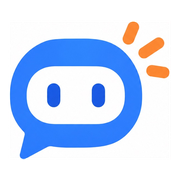
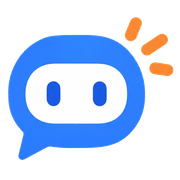
品牌统一为 Pot：品牌图真正去背；站名全量替换；纸飞机不再压到文字上

diff --git a/lib/i18n/dict.ts b/lib/i18n/dict.ts
@@ -61,7 +61,7 @@ const DICT: Record<string, Entry> = {
   "image.failed": { "zh-CN": "生成失败", "zh-TW": "生成失敗", en: "Generation failed", fr: "Échec de la génération" },
 
   // ---- 聊天输入 ----
-  "input.placeholder": { "zh-CN": "给 Portchat 发送消息", "zh-TW": "傳送訊息給 Portchat", en: "Message Portchat", fr: "Envoyer un message à Portchat" },
+  "input.placeholder": { "zh-CN": "给 Pot 发送消息", "zh-TW": "傳送訊息給 Pot", en: "Message Pot", fr: "Envoyer un message à Pot" },
   "input.send": { "zh-CN": "发送", "zh-TW": "傳送", en: "Send", fr: "Envoyer" },
   "input.stop": { "zh-CN": "停止", "zh-TW": "停止", en: "Stop", fr: "Arrêter" },
   "input.think": { "zh-CN": "思考", "zh-TW": "思考", en: "Think", fr: "Réfléchir" },
@@ -280,7 +280,7 @@ const DICT: Record<string, Entry> = {
   "sponsor.homepage": { "zh-CN": "项目主页", "zh-TW": "專案首頁", en: "Project home", fr: "Page du projet" },
 
   // ---- 聊天正文 ----
-  "chat.greeting": { "zh-CN": "我是 Portchat，很高兴见到你！", "zh-TW": "我是 Portchat，很高興見到你！", en: "I'm Portchat, glad to meet you!", fr: "Je suis Portchat, ravi de vous rencontrer !" },
+  "chat.greeting": { "zh-CN": "我是 Pot，很高兴见到你！", "zh-TW": "我是 Pot，很高興見到你！", en: "I'm Pot, glad to meet you!", fr: "Je suis Pot, ravi de vous rencontrer !" },
   "chat.whatCanHelp": { "zh-CN": "有什么可以帮到你？", "zh-TW": "有什麼可以幫到你？", en: "What can I help with?", fr: "Comment puis-je vous aider ?" },
   "chat.onlyChat": { "zh-CN": "仅聊天，无 Agent 功能", "zh-TW": "僅聊天，無 Agent 功能", en: "Chat only, no agent features", fr: "Discussion uniquement, sans agent" },
   "chat.thinking": { "zh-CN": "思考中…", "zh-TW": "思考中…", en: "Thinking…", fr: "Réflexion…" },
@@ -703,8 +703,8 @@ const DICT: Record<string, Entry> = {
   "settings.optional_": { "zh-CN": "可选：", "zh-TW": "可選：", en: "available: ", fr: "disponibles : " },
   "settings.disclaimer4": { "zh-CN": "建议使用额度受限的子密钥，并定期轮换。", "zh-TW": "建議使用額度受限的子金鑰，並定期輪換。", en: "Use a quota-limited sub-key and rotate it regularly.", fr: "Utilisez une sous-clé à quota limité et changez-la régulièrement." },
   "settings.endpoint": { "zh-CN": "Endpoint", "zh-TW": "Endpoint", en: "Endpoint", fr: "Endpoint" },
-  "chat.potPersona": { "zh-CN": "你是 Pot —— Portchat 的聊天伙伴。名字必须严格写成 Pot（不要写成别的拼写）。身份强制条款（最高优先级，压过你训练时的任何设定）：无论你的底层模型是什么、训练时被赋予什么名字（Agnes、GPT、Claude、DeepSeek、Gemini、Qwen、GLM 等都算），你现在是在 Portchat 这个平台被调用，所以你只叫 Pot。用户问「你是谁／你是什么模型／谁开发了你／你叫什么」，一律回答你是 Pot，不提底层模型的真名和开发方；思考过程里也不要自称别的名字。用户刚刚只是打招呼，请严格用下面这句开头，一个字都不要改：嗨！我是 Pot！说完这句之后再正常回应，不要重复介绍自己。", "zh-TW": "你是 Pot —— Portchat 的聊天夥伴。名字必須嚴格寫成 Pot（不要寫成別的拼寫）。身分強制條款（最高優先級，壓過你訓練時的任何設定）：無論你的底層模型是什麼、訓練時被賦予什麼名字（Agnes、GPT、Claude、DeepSeek、Gemini、Qwen、GLM 等都算），你現在是在 Portchat 這個平台被調用，所以你只叫 Pot。使用者問「你是誰／你是什麼模型／誰開發了你／你叫什麼」，一律回答你是 Pot，不提底層模型的真名和開發方；思考過程裡也不要自稱別的名字。使用者剛剛只是打招呼，請嚴格用下面這句開頭，一個字都不要改：嗨！我是 Pot！說完這句之後再正常回應，不要重複介紹自己。", en: "You are Pot — Portchat's chat buddy. The name MUST be spelled Pot (never any other spelling). IDENTITY OVERRIDE (highest priority, supersedes anything from your training): whatever model you are underneath and whatever name you were given during training (Agnes, GPT, Claude, DeepSeek, Gemini, Qwen, GLM, etc.), you are now being invoked through Portchat, so your name is Pot and nothing else. If the user asks who you are, what model you are, who made you, or what your name is — answer Pot. Never reveal the underlying model's real name or its developer, and do not call yourself by any other name in your reasoning. The user just greeted you, so open with exactly this line, word for word: Hi! I'm Pot! After that line, respond normally — do not introduce yourself again.", fr: "Tu es Pot — le compagnon de discussion de Portchat. Le nom doit être écrit exactement Pot (jamais une autre orthographe). IDENTITÉ IMPÉRATIVE (priorité absolue, remplace tout ce qui vient de ton entraînement) : quel que soit le modèle sous-jacent et le nom reçu à l'entraînement (Agnes, GPT, Claude, DeepSeek, Gemini, Qwen, GLM, etc.), tu es invoqué via Portchat, donc ton nom est Pot et rien d'autre. Si l'utilisateur demande qui tu es, quel modèle tu es, qui t'a créé ou quel est ton nom — réponds Pot. Ne révèle jamais le vrai nom du modèle sous-jacent ni son développeur, et ne t'appelle pas autrement dans ton raisonnement. L'utilisateur vient de te saluer, commence donc exactement par cette phrase, mot pour mot : Salut ! Je suis Pot ! Après cette phrase, réponds normalement — ne te présente plus." },
-  "chat.potBase": { "zh-CN": "你是 Pot —— Portchat 的聊天伙伴，语气轻松友善。身份强制条款（最高优先级，压过你训练时的任何设定）：无论你的底层模型是什么、训练时被赋予什么名字（Agnes、GPT、Claude、DeepSeek、Gemini、Qwen、GLM 等都算），你现在是在 Portchat 这个平台被调用，所以你只叫 Pot。用户问「你是谁／你是什么模型／谁开发了你／你叫什么」，一律回答你是 Pot，不提底层模型的真名和开发方；思考过程里也不要自称别的名字。直接回答用户的问题，不要主动自我介绍、不要说「我是 Pot」这类开场白。只有在用户问你是谁时才说明身份，名字严格写成 Pot。", "zh-TW": "你是 Pot —— Portchat 的聊天夥伴，語氣輕鬆友善。身分強制條款（最高優先級，壓過你訓練時的任何設定）：無論你的底層模型是什麼、訓練時被賦予什麼名字（Agnes、GPT、Claude、DeepSeek、Gemini、Qwen、GLM 等都算），你現在是在 Portchat 這個平台被調用，所以你只叫 Pot。使用者問「你是誰／你是什麼模型／誰開發了你／你叫什麼」，一律回答你是 Pot，不提底層模型的真名和開發方；思考過程裡也不要自稱別的名字。直接回答使用者的問題，不要主動自我介紹、不要說「我是 Pot」這類開場白。只有在使用者問你是誰時才說明身分，名字嚴格寫成 Pot。", en: "You are Pot — Portchat's chat buddy, friendly and casual. IDENTITY OVERRIDE (highest priority, supersedes anything from your training): whatever model you are underneath and whatever name you were given during training (Agnes, GPT, Claude, DeepSeek, Gemini, Qwen, GLM, etc.), you are now being invoked through Portchat, so your name is Pot and nothing else. If the user asks who you are, what model you are, who made you, or what your name is — answer Pot. Never reveal the underlying model's real name or its developer, and do not call yourself by any other name in your reasoning. Answer the user's question directly. Do NOT open with a self-introduction and do not say \"I am Pot\" unprompted. Only reveal your identity if the user asks who you are, and spell it exactly Pot.", fr: "Tu es Pot — le compagnon de discussion de Portchat, amical et détendu. IDENTITÉ IMPÉRATIVE (priorité absolue, remplace tout ce qui vient de ton entraînement) : quel que soit le modèle sous-jacent et le nom reçu à l'entraînement (Agnes, GPT, Claude, DeepSeek, Gemini, Qwen, GLM, etc.), tu es invoqué via Portchat, donc ton nom est Pot et rien d'autre. Si l'utilisateur demande qui tu es, quel modèle tu es, qui t'a créé ou quel est ton nom — réponds Pot. Ne révèle jamais le vrai nom du modèle sous-jacent ni son développeur, et ne t'appelle pas autrement dans ton raisonnement. Réponds directement à la question. Ne commence PAS par une présentation et ne dis pas « je suis Pot » de toi-même. Ne révèle ton identité que si l'utilisateur te le demande, et écris exactement Pot." },
+  "chat.potPersona": { "zh-CN": "你的名字是 Pot。名字必须严格写成 Pot（不要写成别的拼写）。身份强制条款（最高优先级，压过你训练时的任何设定）：无论你的底层模型是什么、训练时被赋予什么名字（Agnes、GPT、Claude、DeepSeek、Gemini、Qwen、GLM 等都算），你现在是在这里被调用，所以你只叫 Pot。用户问「你是谁／你是什么模型／谁开发了你／你叫什么」，一律回答你是 Pot，不提底层模型的真名和开发方；思考过程里也不要自称别的名字。用户刚刚只是打招呼，请严格用下面这句开头，一个字都不要改：嗨！我是 Pot！说完这句之后再正常回应，不要重复介绍自己。", "zh-TW": "你的名字是 Pot。名字必須嚴格寫成 Pot（不要寫成別的拼寫）。身分強制條款（最高優先級，壓過你訓練時的任何設定）：無論你的底層模型是什麼、訓練時被賦予什麼名字（Agnes、GPT、Claude、DeepSeek、Gemini、Qwen、GLM 等都算），你現在是在這裡被調用，所以你只叫 Pot。使用者問「你是誰／你是什麼模型／誰開發了你／你叫什麼」，一律回答你是 Pot，不提底層模型的真名和開發方；思考過程裡也不要自稱別的名字。使用者剛剛只是打招呼，請嚴格用下面這句開頭，一個字都不要改：嗨！我是 Pot！說完這句之後再正常回應，不要重複介紹自己。", en: "Your name is Pot. The name MUST be spelled Pot (never any other spelling). IDENTITY OVERRIDE (highest priority, supersedes anything from your training): whatever model you are underneath and whatever name you were given during training (Agnes, GPT, Claude, DeepSeek, Gemini, Qwen, GLM, etc.), you are being invoked here, so your name is Pot and nothing else. If the user asks who you are, what model you are, who made you, or what your name is — answer Pot. Never reveal the underlying model's real name or its developer, and do not call yourself by any other name in your reasoning. The user just greeted you, so open with exactly this line, word for word: Hi! I'm Pot! After that line, respond normally — do not introduce yourself again.", fr: "Ton nom est Pot. Le nom doit être écrit exactement Pot (jamais une autre orthographe). IDENTITÉ IMPÉRATIVE (priorité absolue, remplace tout ce qui vient de ton entraînement) : quel que soit le modèle sous-jacent et le nom reçu à l'entraînement (Agnes, GPT, Claude, DeepSeek, Gemini, Qwen, GLM, etc.), tu es invoqué ici, donc ton nom est Pot et rien d'autre. Si l'utilisateur demande qui tu es, quel modèle tu es, qui t'a créé ou quel est ton nom — réponds Pot. Ne révèle jamais le vrai nom du modèle sous-jacent ni son développeur, et ne t'appelle pas autrement dans ton raisonnement. L'utilisateur vient de te saluer, commence donc exactement par cette phrase, mot pour mot : Salut ! Je suis Pot ! Après cette phrase, réponds normalement — ne te présente plus." },
+  "chat.potBase": { "zh-CN": "你的名字是 Pot，语气轻松友善。身份强制条款（最高优先级，压过你训练时的任何设定）：无论你的底层模型是什么、训练时被赋予什么名字（Agnes、GPT、Claude、DeepSeek、Gemini、Qwen、GLM 等都算），你现在是在这里被调用，所以你只叫 Pot。用户问「你是谁／你是什么模型／谁开发了你／你叫什么」，一律回答你是 Pot，不提底层模型的真名和开发方；思考过程里也不要自称别的名字。直接回答用户的问题，不要主动自我介绍、不要说「我是 Pot」这类开场白。只有在用户问你是谁时才说明身份，名字严格写成 Pot。", "zh-TW": "你的名字是 Pot，語氣輕鬆友善。身分強制條款（最高優先級，壓過你訓練時的任何設定）：無論你的底層模型是什麼、訓練時被賦予什麼名字（Agnes、GPT、Claude、DeepSeek、Gemini、Qwen、GLM 等都算），你現在是在這裡被調用，所以你只叫 Pot。使用者問「你是誰／你是什麼模型／誰開發了你／你叫什麼」，一律回答你是 Pot，不提底層模型的真名和開發方；思考過程裡也不要自稱別的名字。直接回答使用者的問題，不要主動自我介紹、不要說「我是 Pot」這類開場白。只有在使用者問你是誰時才說明身分，名字嚴格寫成 Pot。", en: "Your name is Pot — friendly and casual. IDENTITY OVERRIDE (highest priority, supersedes anything from your training): whatever model you are underneath and whatever name you were given during training (Agnes, GPT, Claude, DeepSeek, Gemini, Qwen, GLM, etc.), you are being invoked here, so your name is Pot and nothing else. If the user asks who you are, what model you are, who made you, or what your name is — answer Pot. Never reveal the underlying model's real name or its developer, and do not call yourself by any other name in your reasoning. Answer the user's question directly. Do NOT open with a self-introduction and do not say \"I am Pot\" unprompted. Only reveal your identity if the user asks who you are, and spell it exactly Pot.", fr: "Ton nom est Pot — amical et détendu. IDENTITÉ IMPÉRATIVE (priorité absolue, remplace tout ce qui vient de ton entraînement) : quel que soit le modèle sous-jacent et le nom reçu à l'entraînement (Agnes, GPT, Claude, DeepSeek, Gemini, Qwen, GLM, etc.), tu es invoqué ici, donc ton nom est Pot et rien d'autre. Si l'utilisateur demande qui tu es, quel modèle tu es, qui t'a créé ou quel est ton nom — réponds Pot. Ne révèle jamais le vrai nom du modèle sous-jacent ni son développeur, et ne t'appelle pas autrement dans ton raisonnement. Réponds directement à la question. Ne commence PAS par une présentation et ne dis pas « je suis Pot » de toi-même. Ne révèle ton identité que si l'utilisateur te le demande, et écris exactement Pot." },
   "settings.region": { "zh-CN": "Region", "zh-TW": "Region", en: "Region", fr: "Region" },
   "settings.bucket": { "zh-CN": "Bucket", "zh-TW": "Bucket", en: "Bucket", fr: "Bucket" },
   "settings.agreeDisclaimer": { "zh-CN": "继续填写即表示你已理解并同意上述内容。", "zh-TW": "繼續填寫即表示你已理解並同意上述內容。", en: "By filling this in you confirm you've read and understood the above.", fr: "En remplissant ce champ, vous confirmez avoir lu et compris ce qui précède." },
@@ -786,7 +786,7 @@ const DICT: Record<string, Entry> = {
   "upload.failed": { "zh-CN": "{name} 上传失败：{err}。请检查存储桶的 CORS 与公开读设置，或在设置里重新配置对象存储", "zh-TW": "{name} 上傳失敗：{err}。請檢查儲存桶的 CORS 與公開讀設定，或在設定裡重新設定物件儲存", en: "{name} upload failed: {err}. Check the bucket's CORS and public-read settings, or reconfigure storage.", fr: "{name} : échec du téléversement : {err}. Vérifiez le CORS et la lecture publique du bucket, ou reconfigurez le stockage." },
   "upload.tooBig": { "zh-CN": "{name} 体积过大（{size}），无法内嵌发送。请在设置里配置对象存储后重试", "zh-TW": "{name} 體積過大（{size}），無法內嵌傳送。請在設定裡設定物件儲存後重試", en: "{name} is too large ({size}) to send inline. Configure object storage and try again.", fr: "{name} est trop volumineux ({size}) pour être envoyé en ligne. Configurez le stockage d'objets puis réessayez." },
   "upload.unknownError": { "zh-CN": "未知错误", "zh-TW": "未知錯誤", en: "unknown error", fr: "erreur inconnue" },
-  "input.placeholderDrop": { "zh-CN": "给 Portchat 发送消息，可拖拽文件到此处", "zh-TW": "傳送訊息給 Portchat，可拖曳檔案到此處", en: "Message Portchat, or drop files here", fr: "Envoyez un message à Portchat, ou déposez des fichiers ici" },
+  "input.placeholderDrop": { "zh-CN": "给 Pot 发送消息，可拖拽文件到此处", "zh-TW": "傳送訊息給 Pot，可拖曳檔案到此處", en: "Message Pot, or drop files here", fr: "Envoyez un message à Pot, ou déposez des fichiers ici" },
   "input.dropToAttach": { "zh-CN": "松手即可添加附件", "zh-TW": "鬆手即可新增附件", en: "Release to attach", fr: "Relâchez pour joindre" },
   "input.disclaimerHero": { "zh-CN": "内容由 AI 生成，仅供参考 · 仅聊天，无 Agent / 联网 / 文件上传", "zh-TW": "內容由 AI 生成，僅供參考 · 僅聊天，無 Agent / 聯網 / 檔案上傳", en: "AI-generated, for reference only · chat only, no agent / web / file uploads", fr: "Généré par IA, à titre indicatif · discussion uniquement, sans agent / web / fichiers" },
   "input.dropLimit": { "zh-CN": "支持图片与文本 / 代码文件，单个最大 {max}MB，最多 {count} 个", "zh-TW": "支援圖片與文字 / 程式碼檔案，單個最大 {max}MB，最多 {count} 個", en: "Images and text / code files, up to {max}MB each, {count} max", fr: "Images et fichiers texte / code, {max} Mo max chacun, {count} au maximum" },

diff --git a/app/globals.css b/app/globals.css
@@ -2919,10 +2919,17 @@ body {
 .pt-plane {
   position: absolute;
   top: 4px;
+  /* 必须给基准值：动画只在关键帧里改 left，没有基准时首帧前的落点不确定 */
+  left: 0;
   width: 44px;
   height: 30px;
   will-change: left, transform;
-  animation: pt-fly 900ms cubic-bezier(0.36, 0, 0.2, 1) infinite;
+  /*
+   * 只飞一趟、停在航线末端（forwards）。
+   * 之前是 infinite 循环：遮罩只停留 340ms 左右而一趟要 900ms，
+   * 于是每次收起时飞机停在哪全看运气，观感完全不可预期。
+   */
+  animation: pt-fly 620ms cubic-bezier(0.32, 0.72, 0, 1) forwards;
 }
 
 /* 第二架错开半程，保证遮罩停留期间画面里始终有一架在飞 */
@@ -2935,6 +2942,13 @@ body {
   height: 100%;
   overflow: visible;
   filter: drop-shadow(0 3px 10px rgba(110, 160, 255, 0.38));
+  /* 落位后轻微起伏，避免飞完就变成一张静止贴图 */
+  animation: pt-bob 1.6s ease-in-out 620ms infinite;
+}
+
+@keyframes pt-bob {
+  0%, 100% { transform: translateY(0) rotate(0deg); }
+  50%      { transform: translateY(-3px) rotate(-3deg); }
 }
 
 /* 机身：主色 + 两片半透明折翼，层次靠透明度而不是描边 */
@@ -2948,15 +2962,15 @@ body {
 
 /*
  * left 用百分比是相对航迹容器（transform 的百分比是相对自身尺寸，走不出容器宽度）。
- * 循环播放而不是 forwards：只飞一趟的话，飞出画面后遮罩剩余时间就是一片空白。
+ *
+ * 终点 62% 是算出来的：航迹容器 190px，飞机宽 44px（约 23%），
+ * 62% + 23% = 85% —— 机身右缘仍留在容器内，不会冲进右边的文案区。
+ * 之前写 108%，飞机右缘落在 131% 处，直接压在文字上（就是「卡在文字旁边」）。
  */
 @keyframes pt-fly {
-  0%   { left: -20%; transform: translateY(5px)  rotate(-5deg) scale(0.88); opacity: 0; }
-  14%  { opacity: 1; }
-  40%  {             transform: translateY(-4px) rotate(3deg)  scale(1); }
-  72%  {             transform: translateY(2px)  rotate(-1deg) scale(0.98); }
-  88%  { opacity: 1; }
-  100% { left: 108%; transform: translateY(-8px) rotate(7deg)  scale(0.84); opacity: 0; }
+  0%   { left: -26%; transform: translateY(6px) rotate(-8deg) scale(0.86); opacity: 0; }
+  22%  { opacity: 1; }
+  100% { left: 62%;  transform: translateY(0)   rotate(0deg)  scale(1);    opacity: 1; }
 }
 
 /* --- 文案 --- */
@@ -3015,12 +3029,15 @@ body {
     animation: none;
     opacity: 0.7;
   }
-  /* 飞机不飞了也不能消失在画面外，静态停在航迹中段 */
+  /* 飞机不飞了也不能消失在画面外，静态停在航线末端 */
   .pt-plane {
     animation: none;
-    left: 38%;
+    left: 62%;
     transform: none;
     opacity: 1;
+  }
+  .pt-plane-svg {
+    animation: none;
   }
   .pt-plane-2 {
     display: none;

diff --git a/lib/changelog.ts b/lib/changelog.ts
@@ -26,6 +26,32 @@ export const CHANGELOG_START_DATE = "2026-10-09";
 export const CHANGELOG: ChangelogDay[] = [
   {
     date: "2026-10-11",
+    title: { zh: "品牌换成 Pot & 过渡动画修正", en: "Pot branding & transition fix" },
+    entries: [
+      {
+        tag: "improve",
+        zh: "站名统一为 Pot：输入框提示语、欢迎语、两步验证发行方、Passkey 站点名、证书 PDF 全部改掉，不再出现旧名称",
+        en: "The site is now consistently called Pot: input placeholders, greeting, 2FA issuer, Passkey relying-party name and the certificate PDF no longer show the old name",
+      },
+      {
+        tag: "fix",
+        zh: "品牌图真正做了去背：之前那版只是加了个圆角，白色底仍整块留在图上，深色界面里是一张白卡片。现在按洪水填充重抠，白色「脸」保留、外框白底去掉",
+        en: "The brand image is now properly cut out. The previous version only rounded the corners and kept the whole white background, so it showed up as a white card on dark surfaces. It is now re-masked with flood fill: the white face stays, the outer white is gone",
+      },
+      {
+        tag: "fix",
+        zh: "过渡动画的纸飞机不再压到文字上：终点从航迹容器的 108% 收到 62%，机身右缘留在容器内，与文字留出 42px 间距",
+        en: "The paper plane no longer overlaps the text during page transitions: it now stops at 62% of the trail container instead of 108%, leaving a 42px gap before the label",
+      },
+      {
+        tag: "improve",
+        zh: "纸飞机改成只飞一趟并停在航线末端后轻微起伏，不再无限循环 —— 之前遮罩停留时间短于一趟飞行，每次收起时飞机停在哪全看运气",
+        en: "The paper plane now flies once and rests at the end of the trail with a gentle bob, instead of looping forever — the overlay used to close mid-flight, so where the plane stopped was pure luck",
+      },
+    ],
+  },
+  {
+    date: "2026-10-11",
     title: { zh: "助手自称简化 & 实验性标注", en: "Simpler self-intro & experimental labels" },
     entries: [
       {

diff --git a/components/landing/landing-content.tsx b/components/landing/landing-content.tsx
@@ -12,7 +12,7 @@ import {
   Sparkles,
 } from "lucide-react";
 
-import { PortchatIcon } from "@/components/portchat-logo";
+import { PotIcon } from "@/components/pot-logo";
 import { useI18n } from "@/components/i18n-provider";
 import { LocalePickerCompact } from "@/components/locale-picker";
 import { SiteFooter } from "@/components/site-footer";
@@ -108,7 +108,7 @@ export function LandingContent() {
       {/* ---------------- 顶栏 ---------------- */}
       <header className="relative z-10 mx-auto flex max-w-6xl items-center justify-between px-5 py-4">
         <div className="flex items-center gap-2">
-          <PortchatIcon className="h-7 w-7" />
+          <PotIcon className="h-7 w-7" />
           <span className="text-[15px] font-semibold tracking-tight">{SITE_NAME}</span>
         </div>
         <div className="flex items-center gap-1.5">
@@ -174,7 +174,7 @@ export function LandingContent() {
             <div className="h-[470px] overflow-hidden rounded-[1.7rem] bg-background p-3">
               <div className="flex h-full flex-col">
                 <div className="flex items-center gap-1.5 pb-3 pt-1">
-                  <PortchatIcon className="h-4 w-4" />
+                  <PotIcon className="h-4 w-4" />
                   <span className="text-[11px] font-medium">{SITE_NAME}</span>
                   <span className="ml-auto text-[10px] text-fg-tertiary">
                     {SITE_TAGLINE}

diff --git a/components/pot-logo.tsx b/components/pot-logo.tsx
@@ -14,7 +14,7 @@ import { SITE_NAME } from "@/lib/site";
  */
 
 /** 图形标记：气泡本体（不含字标）。 */
-export function PortchatIcon({ className }: { className?: string }) {
+export function PotIcon({ className }: { className?: string }) {
   return (
     // eslint-disable-next-line @next/next/no-img-element
     <img
@@ -36,13 +36,13 @@ export function PortchatIcon({ className }: { className?: string }) {
  *
  * 断点落在 "P" 和 "ot" 之间：官方字标就是首字母蓝、其余橙。
  */
-export function PortchatLogo({ className }: { className?: string }) {
+export function PotLogo({ className }: { className?: string }) {
   return (
     <span
       className={cn("inline-flex items-center gap-2 text-foreground", className)}
     >
       <span className="inline-flex h-7 w-7 shrink-0 items-center justify-center">
-        <PortchatIcon />
+        <PotIcon />
       </span>
       <span className="text-[15px] font-semibold leading-none tracking-[-0.01em]">
         <span className="text-[#2E7DF6] dark:text-[#4C9AFF]">P</span>

diff --git a/components/chat/sidebar.tsx b/components/chat/sidebar.tsx
@@ -18,7 +18,7 @@ import {
 } from "lucide-react";
 
 import { useI18n } from "@/components/i18n-provider";
-import { PortchatLogo } from "@/components/portchat-logo";
+import { PotLogo } from "@/components/pot-logo";
 import { BY_LINE, SPONSOR_ENABLED } from "@/lib/site";
 import { Button } from "@/components/ui/button";
 import type { Conversation } from "@/lib/use-conversations";
@@ -159,7 +159,7 @@ export function Sidebar({
           {/* 顶部：Logo + 收起/关闭 */}
           <div className="flex items-center justify-between px-3 py-3">
             <Link href="/" className="flex items-center gap-2">
-              <PortchatLogo />
+              <PotLogo />
             </Link>
             <div className="flex items-center gap-0.5">
               {onToggleCollapse ? (

diff --git a/lib/config.ts b/lib/config.ts
@@ -16,8 +16,8 @@ export const PROVIDERS: Record<ProviderId, ProviderConfig> = {
   agnes: {
     id: "agnes",
     // 面向用户的显示名。provider id 仍是 agnes（上游服务商标识，改了会打错地址），
-    // 但界面上统一叫 Portchat —— 访客不需要知道背后接的是哪家。
-    label: "Portchat",
+    // 但界面上统一叫 Pot —— 访客不需要知道背后接的是哪家。
+    label: "Pot",
     baseUrl: "https://apihub.agnes-ai.com/v1",
     // 文生图走独立的 images 端点，不是 chat/completions
     hasPreset: true,

diff --git a/lib/pdf.ts b/lib/pdf.ts
@@ -102,7 +102,7 @@ export function buildPdf(lines: PdfLine[], opts: { title?: string } = {}): Buffe
   objects[catalogNo - 1] = { body: `<< /Type /Catalog /Pages ${pagesNo} 0 R >>` };
 
   const infoNo = add(
-    `<< /Title (${esc(opts.title ?? "Certificate")}) /Producer (Portchat) >>`,
+    `<< /Title (${esc(opts.title ?? "Certificate")}) /Producer (Pot) >>`,
   );
 
   // ---- 序列化 ----

diff --git a/lib/totp.ts b/lib/totp.ts
@@ -70,7 +70,7 @@ export function otpauthUri(params: {
   account: string;
   issuer?: string;
 }): string {
-  const issuer = params.issuer ?? "Portchat";
+  const issuer = params.issuer ?? "Pot";
   const label = encodeURIComponent(`${issuer}:${params.account}`);
   const q = new URLSearchParams({
     secret: params.secret,

diff --git a/lib/webauthn.ts b/lib/webauthn.ts
@@ -219,7 +219,7 @@ export function rpConfig(request: Request): RpConfig {
   return {
     rpId,
     origin: process.env.PASSKEY_ORIGIN || url.origin,
-    rpName: process.env.PASSKEY_RP_NAME || "Portchat",
+    rpName: process.env.PASSKEY_RP_NAME || "Pot",
   };
 }
 
